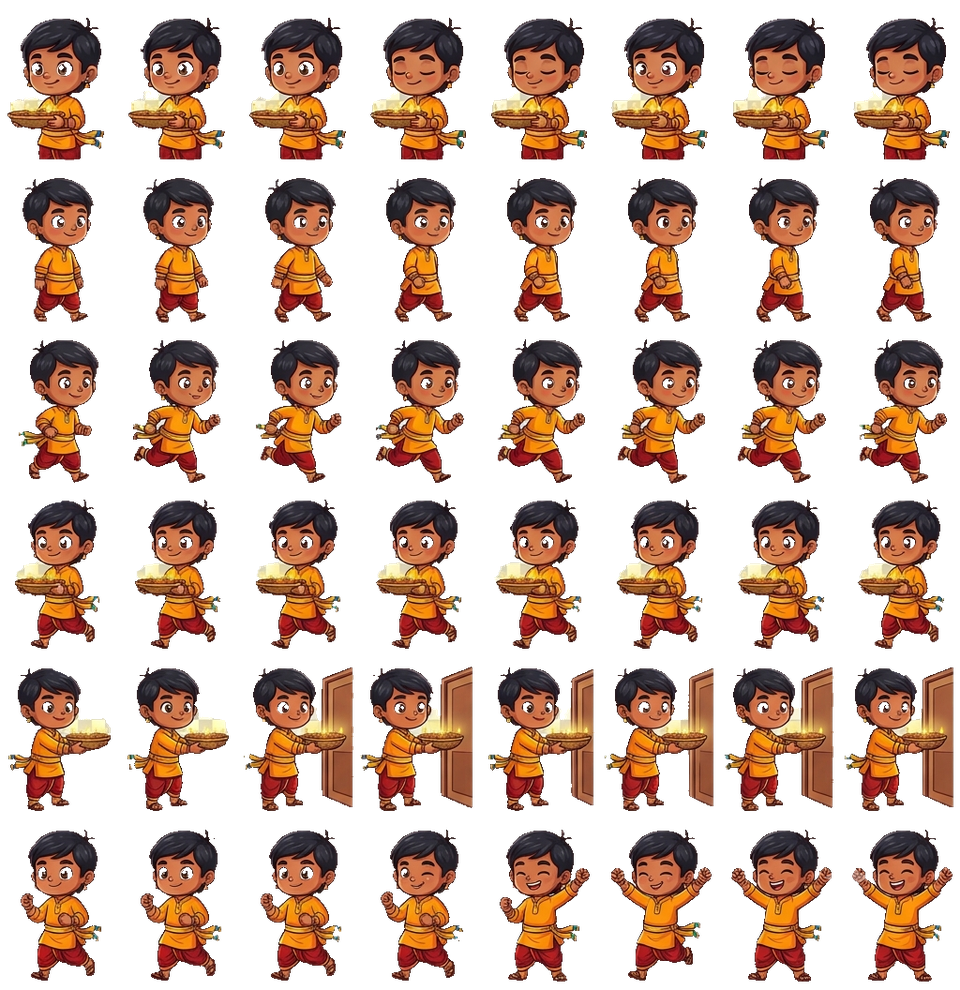
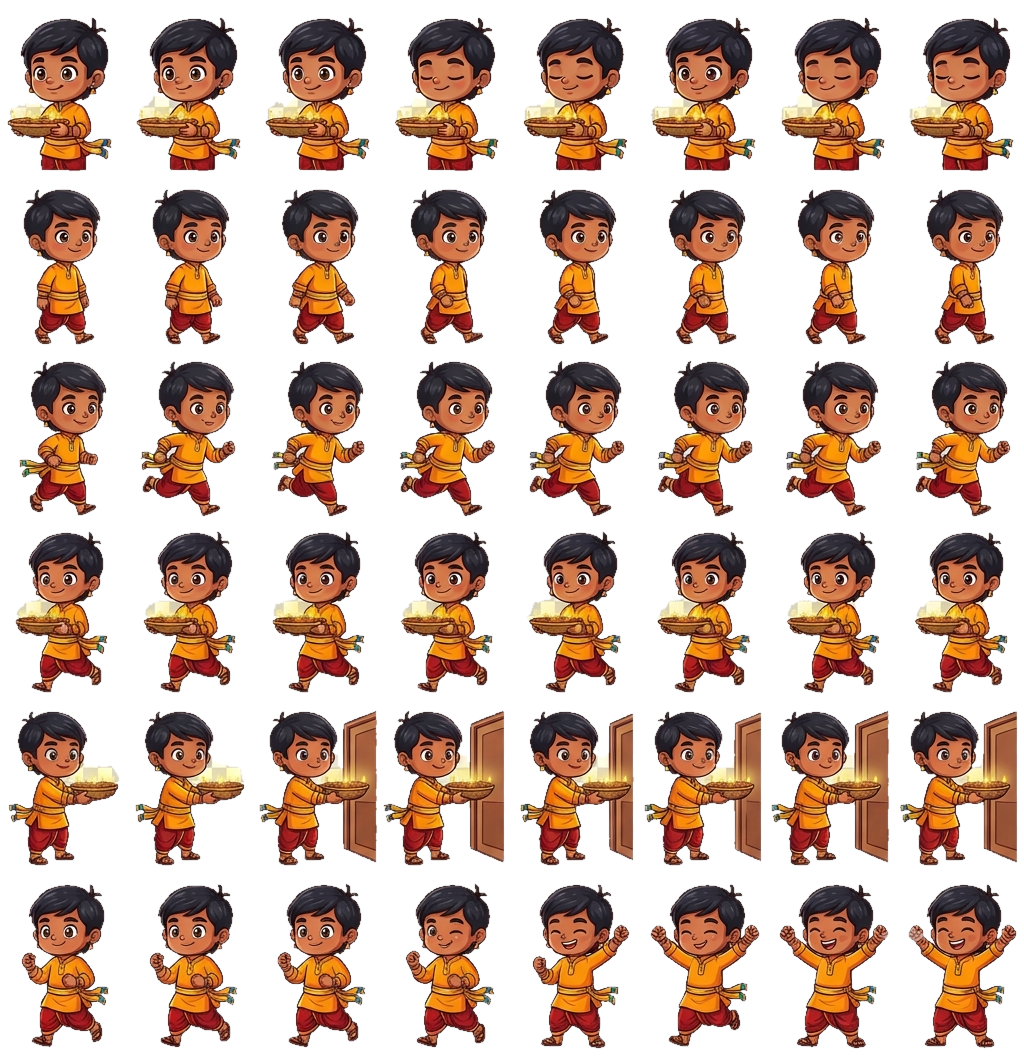
Fix player eyes (clean checkerboard key) and make him read as running
- The old asset-optimise pass blew the dark irises into white blobs (the
  "googly eyes"). Re-key the master player_sheet.png with a dedicated
  border-connected flood fill (tools/key_player_sheet.py) that removes the
  checkerboard while leaving the interior eye sclera and tray whites intact;
  ship the clean 8x6 @128x176 sheet
- Remove the player sheet from optimize_assets.py so it is not re-corrupted
- Running feel: constant forward lean (6deg), higher/faster stride bounce,
  faster leg frame rate (20fps), and dust puffs kicked up behind the feet;
  lane-change and hit angles settle back to the run lean
- versionCode 4 / versionName 1.0.3

diff --git a/src/scenes/GameScene.js b/src/scenes/GameScene.js
@@ -149,11 +149,15 @@ export default class GameScene extends Phaser.Scene {
 
     buildPlayer() {
         this.player = this.add.sprite(PLAYER_X, this.playerBaseY, "player")
-            .setDepth(20).setScale(1.05).setOrigin(0.5, 0.82);
+            .setDepth(20).setScale(0.98).setOrigin(0.5, 0.82);
         // The art faces left, but in landscape he runs to the right (the world
         // scrolls left past him), so mirror him to face his direction of travel.
         this.player.setFlipX(true);
+        // A constant slight forward lean sells the run (head ahead of the feet).
+        this.runLean = 6;
+        this.player.setAngle(this.runLean);
         this.player.play("p_carry");
+        this.dustAcc = 0;
         this.playerShadow = this.add.ellipse(PLAYER_X, this.playerBaseY + 8, 72, 22, 0x000000, 0.28).setDepth(19);
         this.trayPips = this.add.container(0, 0).setDepth(21);
     }
@@ -283,8 +287,9 @@ export default class GameScene extends Phaser.Scene {
         this.currentLane = next;
         Sfx.play("tap");
         this.tweens.add({ targets: this, playerBaseY: this.laneRows[next], duration: 110, ease: "Quad.out" });
-        this.player.setAngle(dir < 0 ? -7 : 7);
-        this.tweens.add({ targets: this.player, angle: 0, duration: 180, delay: 60 });
+        // Bank into the lane change, then settle back to the running lean.
+        this.player.setAngle(this.runLean + (dir < 0 ? -11 : 11));
+        this.tweens.add({ targets: this.player, angle: this.runLean, duration: 180, delay: 60 });
     }
 
     // --- rain --------------------------------------------------------------
@@ -350,13 +355,21 @@ export default class GameScene extends Phaser.Scene {
         if (this.rain) { this.rain.tilePositionX += 500 * dt; this.rain.tilePositionY += 700 * dt; }
         if (this.endless) this.distance += this.speed * dt;
 
-        // running bounce
-        const lift = Math.abs(Math.sin(this.elapsed * 13)) * 9;
+        // running bounce - two strides per cycle, a touch higher so the legs read
+        const stride = this.elapsed * 15;
+        const lift = Math.abs(Math.sin(stride)) * 11;
         this.player.y = this.playerBaseY - lift;
         this.playerShadow.y = this.playerBaseY + 8;
-        this.playerShadow.setScale(1 - lift / 55, 1 - lift / 90);
+        this.playerShadow.setScale(1 - lift / 48, 1 - lift / 80);
         this.player.setTint(this.elapsed < this.invulnUntil && Math.floor(this.elapsed * 12) % 2 ? 0x88ccff : 0xffffff);
         this.drawTrayPips();
+
+        // kick up a little dust each time a foot lands (bottom of the bounce)
+        this.dustAcc += dt;
+        if (this.running && !this.paused && this.dustAcc > 0.18) {
+            this.dustAcc = 0;
+            this.spawnDust();
+        }
 
         // spawns
         this.spawnAcc += dt;
@@ -639,7 +652,23 @@ export default class GameScene extends Phaser.Scene {
 
     flashPlayer(color) {
         this.player.setTint(color);
-        this.tweens.add({ targets: this.player, angle: { from: -12, to: 12 }, duration: 80, yoyo: true, repeat: 2, onComplete: () => this.player.setAngle(0) });
+        this.tweens.add({ targets: this.player, angle: { from: this.runLean - 12, to: this.runLean + 12 }, duration: 80, yoyo: true, repeat: 2, onComplete: () => this.player.setAngle(this.runLean) });
+    }
+
+    // A small puff of dust kicked up behind the running feet.
+    spawnDust() {
+        const y = this.playerBaseY + 6;
+        const puff = this.add.ellipse(PLAYER_X - 26, y, 16, 9, 0xffe6b0, 0.5).setDepth(18);
+        this.tweens.add({
+            targets: puff,
+            x: PLAYER_X - 70,
+            y: y - 6,
+            scaleX: 2.2, scaleY: 2.2,
+            alpha: 0,
+            duration: 420,
+            ease: "Quad.out",
+            onComplete: () => puff.destroy()
+        });
     }
 
     // --- little effects ----------------------------------------------------

diff --git a/src/scenes/BootScene.js b/src/scenes/BootScene.js
@@ -81,7 +81,7 @@ export default class BootScene extends Phaser.Scene {
         make("p_run", PLAYER_ROWS.run, 16);
         // The gameplay pose: carrying the tray while moving. Run it fast so the
         // legs read as a run rather than a stroll.
-        make("p_carry", PLAYER_ROWS.walkTray, 17);
+        make("p_carry", PLAYER_ROWS.walkTray, 20);
         make("p_deliver", PLAYER_ROWS.deliver, 12, 0);
         make("p_cheer", PLAYER_ROWS.cheer, 10, 2);
 

diff --git a/src/data/assets.js b/src/data/assets.js
@@ -76,8 +76,8 @@ export const IMAGES = {
 export const SHEETS = {
     player: {
         file: "player_diwali_delivery_sheet.png",
-        frameWidth: 120,
-        frameHeight: 165
+        frameWidth: 128,
+        frameHeight: 176
     },
     coin_spin: {
         file: "coin_sheet.png",

diff --git a/tools/key_player_sheet.py b/tools/key_player_sheet.py
@@ -1,0 +1,61 @@
+"""
+Cleanly keys the checkerboard background out of the master player sprite sheet
+(Assets/player_sheet.png) without touching the interior whites - the eyes'
+sclera and the tray's diyas - which an earlier global optimise pass blew out
+into white blobs (the "googly eyes").
+
+Method: the checker background is desaturated AND bright; the character is
+saturated or dark. We mark bright-desaturated pixels as background CANDIDATES,
+then keep only the candidate region that is connected to the image border as
+true background. Interior sclera/tray whites are enclosed by the character's
+silhouette, so they are never reached and stay opaque.
+
+Writes public/assets/player_diwali_delivery_sheet.png  (1024x1056, 8x6 @128x176).
+Run:  python tools/key_player_sheet.py
+"""
+
+import os
+import numpy as np
+from PIL import Image, ImageFilter
+from scipy import ndimage
+
+ROOT = os.path.join(os.path.dirname(__file__), "..")
+SRC = os.path.join(ROOT, "Assets", "player_sheet.png")
+OUT = os.path.join(ROOT, "public", "assets", "player_diwali_delivery_sheet.png")
+
+SAT_MAX = 22      # checker is near-grey; character skin/cloth is well above this
+VAL_MIN = 185     # checker tones are ~207 and ~253; character darks fall below
+
+
+def main():
+    im = Image.open(SRC).convert("RGB")
+    a = np.asarray(im).astype(int)
+    mx = a.max(2)
+    mn = a.min(2)
+    sat = mx - mn
+    val = mx
+    bg_candidate = (sat <= SAT_MAX) & (val >= VAL_MIN)
+
+    # Keep only candidate pixels connected to the border = the real background.
+    lbl, n = ndimage.label(bg_candidate)
+    border_labels = set(lbl[0, :]) | set(lbl[-1, :]) | set(lbl[:, 0]) | set(lbl[:, -1])
+    border_labels.discard(0)
+    background = np.isin(lbl, list(border_labels))
+
+    # Eat the 1px antialiased checker halo hugging the character, so no grey
+    # fringe remains, then build a soft alpha.
+    background = ndimage.binary_dilation(background, iterations=1)
+    alpha = np.where(background, 0, 255).astype("uint8")
+    alpha_img = Image.fromarray(alpha, "L").filter(ImageFilter.GaussianBlur(0.6))
+
+    out = im.convert("RGBA")
+    out.putalpha(alpha_img)
+    os.makedirs(os.path.dirname(OUT), exist_ok=True)
+    out.save(OUT, "PNG")
+
+    kept = (np.asarray(out)[..., 3] > 10).mean() * 100
+    print(f"wrote {os.path.relpath(OUT, ROOT)}  opaque area {kept:.1f}%")
+
+
+if __name__ == "__main__":
+    main()

diff --git a/tools/optimize_assets.py b/tools/optimize_assets.py
@@ -120,10 +120,12 @@ def deglow(im):
     return Image.fromarray(arr, "RGBA")
 
 # Sprite sheets: (columns, rows, target frame width in px).
+# NOTE: the player sheet is keyed by the dedicated tools/key_player_sheet.py,
+# which removes the checkerboard without blowing out the eyes/tray whites the
+# way this general pass did. Do not add it back here.
 SHEETS = {
     "coin_sheet.png":               (8, 1, 84),
     "diya_pickup_sheet.png":        (6, 1, 150),
-    "player_diwali_delivery_sheet.png": (8, 6, 120),
 }
 
 # Everything else: longest side is capped at this many px.
